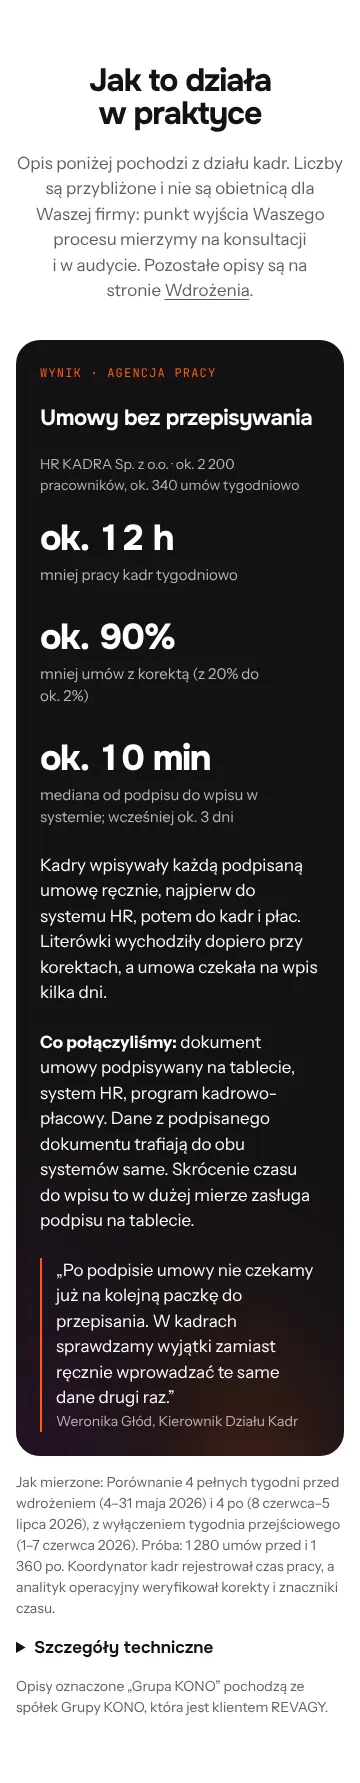
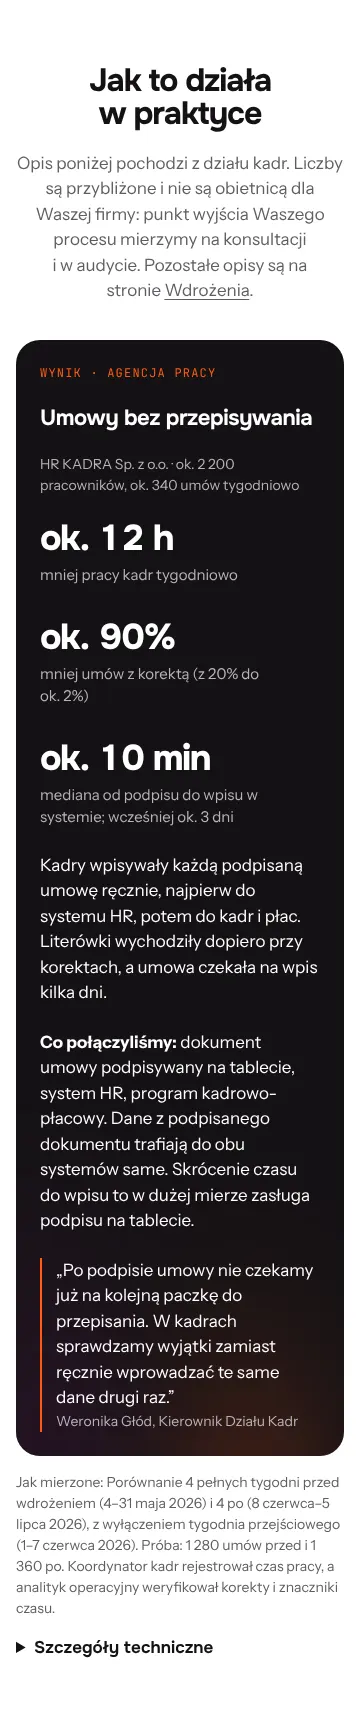
T-038: poprawki po przeglądzie PR #50
Zdanie ujawnienia tylko na stronach, które pokazują etykietę „Grupa KONO”
(pokazUjawnienie, prop wdrozenia w Ujawnienie.astro): 0 na kadrach i sprzedaży,
1 na produkcji, finansach, wdrożeniach i integracji. Zakres pomiaru przy
„ok. 20 min”. Test tools/tests/ujawnienie.test.cjs.

Claude-Session: https://claude.ai/code/session_01DT4mkiEMDc47BAngWxnHiF

Changed region(s): [[0.0306, 0.0307, 0.9778, 0.9832], [0.8556, 0.9525, 0.8861, 0.9832], [0.6722, 0.9525, 0.7028, 0.9832]]

diff --git a/kono-state/tasks/T-038-sceny-dowodu-kadry-produkcja-i-ujawnienie.md b/kono-state/tasks/T-038-sceny-dowodu-kadry-produkcja-i-ujawnienie.md
@@ -52,6 +52,17 @@ wysokość. PR 2 zmienia moment pokazania banera na telefonie, więc preload wch
   akcentu, jak w A2).
 - Wysokość sekcji: kadry-i-place 1 536 → 1 782 px (360), produkcja-i-logistyka 1 032 → 1 152 px (360).
 
+## Poprawki po przeglądzie PR #50 (zaakceptowane przez właściciela 26.11.2026)
+
+1. Zdanie ujawnienia tylko na stronach z etykietą „Grupa KONO”: `pokazUjawnienie(ids)` w `src/data/dowody.mjs`,
+   `<Ujawnienie wdrozenia={[…]} />` z listą wdrożeń, których etykiety strona pokazuje. Wynik w dist:
+   kadry-i-place 0, sprzedaz 0, produkcja-i-logistyka 1, finanse 1, wdrozenia 1, integracja-systemow 1.
+   Wyłączenie `zgodaNaWynik` ukrywa tylko liczbę pilotażu, etykieta i zdanie zostają.
+2. „ok. 20 min”: opis „przygotowanie raportu zmianowego, od udostępnienia danych za zmianę do zapisania raportu;
+   wcześniej ok. 6 h”. Wartość i tabela kryteriów bez zmian.
+3. `tools/tests/ujawnienie.test.cjs`: 3 testy pomocnika na danych testowych + liczba zdań na zbudowanych stronach.
+   Na buildzie sprzed poprawki test liczby zdań nie przechodzi, po poprawce 4/4.
+
 ## Dowody
 
 `kono-state/notes/kierunek-a-dowody/`: sekcje przed (main b4bef98) i po, 2 strony × 1440/390/360, `pomiary.json`.
